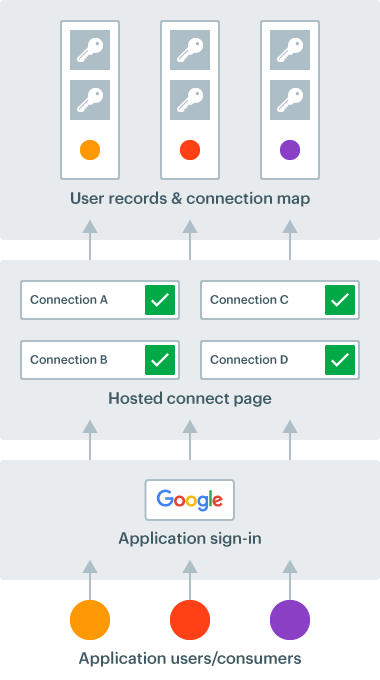
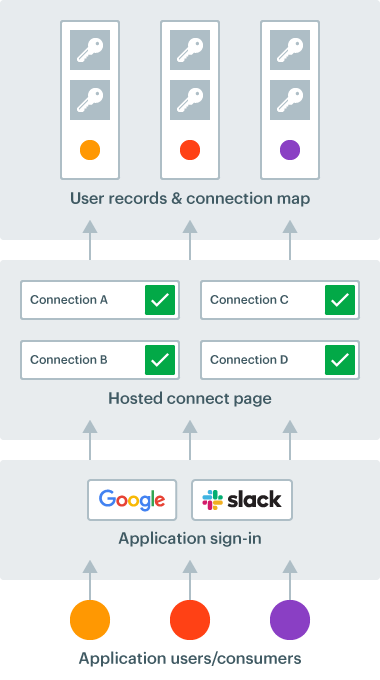
TR-4302 Documentation for Slack Sign-in (#261)

Changed region(s): [[0.2316, 0.6794, 0.7816, 0.7721], [0.2316, 0.6794, 0.2605, 0.7103]]

diff --git a/building/managed-authentication.md b/building/managed-authentication.md
@@ -13,7 +13,7 @@ If you'd like to jump straight to all authentication options, see [Connector aut
 
 Transposit gives you tooling to centrally manage all the aspects of authentication you might require while building a data-driven application with a "front door" for user sign-in.
 
-Imagine the following scenario: You are building an application that allows users to sign in (via Google) and connect their own data from other services your app integrates with (e.g. GMail, Slack, Salesforce). You also want to connect your application to data sources needed by _all_ app users&mdash;but requiring your own credentials (e.g. APIs, databases, spreadsheets, etc).
+Imagine the following scenario: You are building an application that allows users to sign in and connect their own data from other services your app integrates with (e.g. GMail, Slack, Salesforce). You also want to connect your application to data sources needed by _all_ app users&mdash;but requiring your own credentials (e.g. APIs, databases, spreadsheets, etc).
 
 Here's what this process looks like when building with Transposit:
 
@@ -50,4 +50,3 @@ To use Transposit as an authentication provider in your app, you’d copy/paste 
 In Transposit, if you’re using sign-in identity management, you can manage a whitelist of app users, inspect user records, see what connections and authentications exist, and modify these as an admin.
 
 For more documentation about how to use authentication in Transposit in any of these cases, take a look at the detailed [Keychains reference](/docs/references/keys-and-keychains).
-

diff --git a/building/js-sdk.md b/building/js-sdk.md
@@ -11,16 +11,23 @@ Use the [Transposit JavaScript SDK](https://github.com/transposit/transposit-js-
 
 1. Navigate to **Users &gt; User Configuration**
 2. Specify **Successful sign-in URIs**. Transposit allows redirection only to these URIs during sign-in. Leave this list empty to redirect users to the  [user settings page](/docs/building/user-config) after signing in.
-3. Optionally, provide a custom **Google Client ID** and **Google Client Secret** pair
+3. Optionally, provide a custom **Client ID** and **Client Secret** pair
 4. Save the configuration
 
 # Restrict sign-in
 
-You can restrict sign-in to specific Google GSuite domains or users.
+You can restrict sign-in to specific users or criteria. For Google, restrict based on GSuite domain or email address. For Slack, restrict based on workspace.
 
 1. Navigate to **Users &gt; User Configuration &gt; Registration and Login**
-2. Select **Restrict to specific whitelisted domains and users**
-3. Specify your restrictions
+2. Specify your restrictions
+
+## Slack workspace id restrictions
+
+You can restrict Slack sign-in by workspace id. To easily find a workspace's id, sign in to your app.
+
+1. Sign in to your app using Slack
+2. Navigate to **Users &gt; Registered Users**
+3. Find your workspace id. It is formatted T1234ABCD.
 
 ## Deploy endpoints
 

diff --git a/building/user-config.md b/building/user-config.md
@@ -7,14 +7,22 @@ tags: doc
 
 On the User Configuration page, you can specify how users will interact with your app.
 
-## Configure sign-in
+## Configure user sign-in
 
-Your application is protected by sign-in. You can restrict sign-in to specific Google GSuite domains or users.
+Your application is protected by sign-in. You can restrict sign-in to specific Google GSuite domains and users, or Slack workspaces.
 
 1. Navigate to **Users &gt; User Configuration &gt; Registration and Login**
-2. Click **Restrict to specific whitelisted domains and users**
-3. Specify who is allowed to sign in
-4. Click **Save**
+2. Specify who is allowed to sign in
+3. Click **Save**
+
+## Select a sign-in provider
+
+Choose whether users authenticate through Google or Slack when signing in to your app. Choose carefully: you can change your sign-in provider later, but all user data will be deleted.
+
+1. Navigate to **Users &gt; User Configuration &gt; Registration and Login**
+2. Click **Change** found at the end of "Users authenticate with their Google/Slack account" 
+3. Select a provider from the pop-up form
+4. Click **Change**
 
 ## Manage users
 
